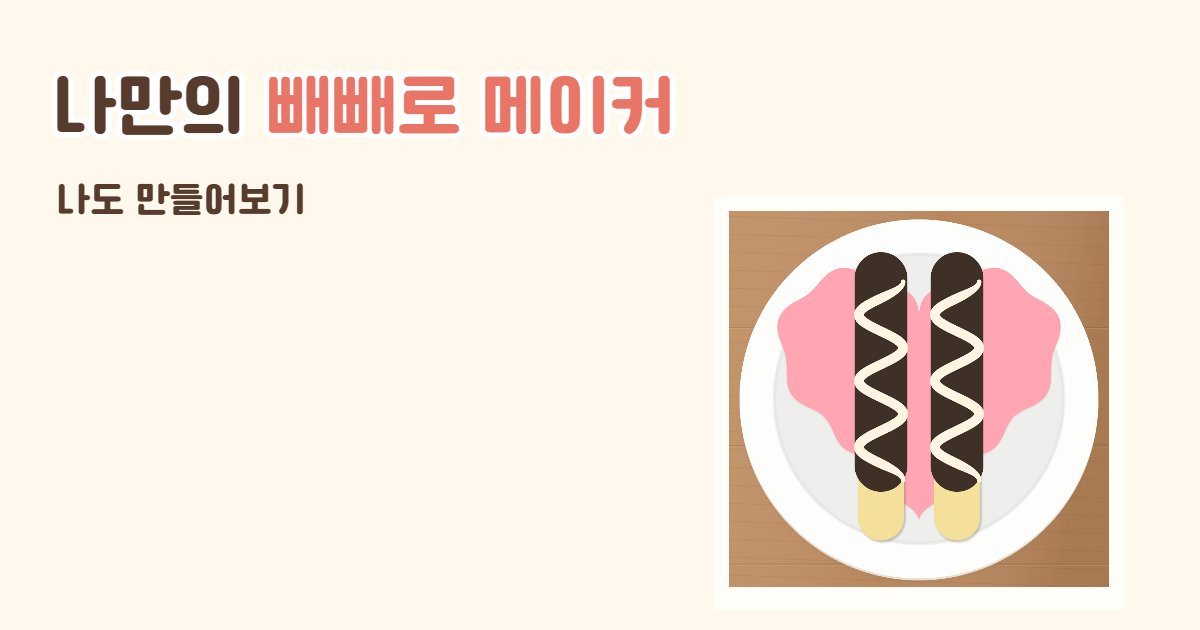
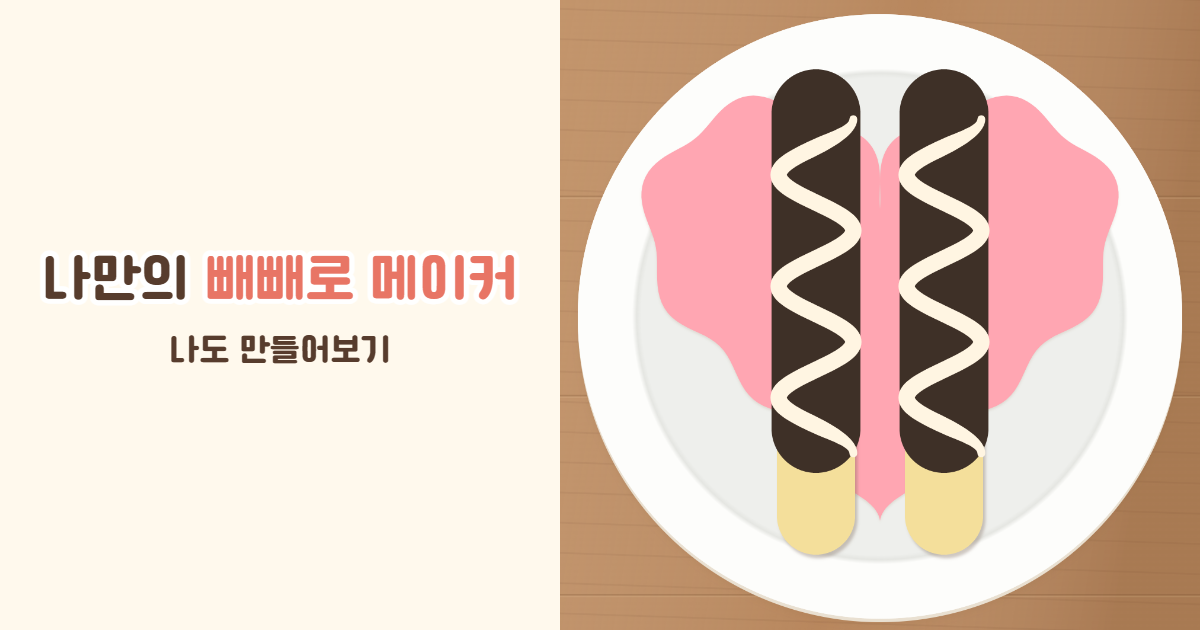
refactor: 메타 카드 사진 확대와 문구 중앙 정렬

diff --git a/app.js b/app.js
@@ -285,28 +285,28 @@
 
   async function shareImage() {
     await imageBlob();
-    await document.fonts.load('68px Cafe24Ssurround');
+    await document.fonts.load('52px Cafe24Ssurround');
     const card = document.createElement("canvas");
     card.width = 1200;
     card.height = 630;
     const brush = card.getContext("2d");
     brush.fillStyle = "#fff9ed";
     brush.fillRect(0, 0, 1200, 630);
-    brush.font = '68px Cafe24Ssurround';
+    brush.drawImage(canvas, 560, 0, 640, 640 * 1068 / 1080);
+    brush.font = '52px Cafe24Ssurround';
     brush.lineJoin = "round";
     brush.lineWidth = 10;
     brush.strokeStyle = "#fff";
-    brush.strokeText("나만의 빼빼로 메이커", 52, 124);
+    const titleX = (560 - brush.measureText("나만의 빼빼로 메이커").width) / 2;
+    brush.strokeText("나만의 빼빼로 메이커", titleX, 292);
     brush.fillStyle = "#573c2d";
-    brush.fillText("나만의 ", 52, 124);
+    brush.fillText("나만의 ", titleX, 292);
     brush.fillStyle = "#e87565";
-    brush.fillText("빼빼로 메이커", 52 + brush.measureText("나만의 ").width, 124);
-    brush.font = '36px Cafe24Ssurround';
+    brush.fillText("빼빼로 메이커", titleX + brush.measureText("나만의 ").width, 292);
+    brush.font = '32px Cafe24Ssurround';
+    brush.textAlign = "center";
     brush.fillStyle = "#573c2d";
-    brush.fillText("나도 만들어보기", 56, 209);
-    brush.fillStyle = "#fffdf8";
-    brush.fillRect(714, 196, 410, 414);
-    brush.drawImage(canvas, 729, 211, 380, 380 * 1068 / 1080);
+    brush.fillText("나도 만들어보기", 280, 358);
     const blob = await new Promise((resolve, reject) => card.toBlob(result => result ? resolve(result) : reject(new Error("카드 생성 실패")), "image/png"));
     const response = await fetch("/api/shares", { method: "POST", headers: { "Content-Type": "image/png" }, body: blob });
     if (!response.ok) throw new Error("공유 링크 생성 실패");

diff --git a/index.html b/index.html
@@ -258,4 +258,4 @@ button[data-kind="chocolate"] span { width: 30px; height: 30px; border-radius: 5
 <div class="selection-area">
 <div class="tray-controls"><button type="button" class="back-button" aria-label="이전 단계로" hidden><span aria-hidden="true"></span></button><button type="button" class="tray-toggle" aria-label="트레이 접기" aria-expanded="true" aria-controls="tray-content"><span aria-hidden="true"></span></button></div>
 <div class="tray-region"><div class="tray-clip" id="tray-content"><section class="sheet"><h2 aria-live="polite"></h2><div class="choices"></div><p class="feedback" role="status" hidden></p><input class="share-link" aria-label="공유할 사이트 링크" readonly hidden></section>
-</div></div></div></section></main><script src="app.js?v=63"></script></body></html>
+</div></div></div></section></main><script src="app.js?v=64"></script></body></html>
